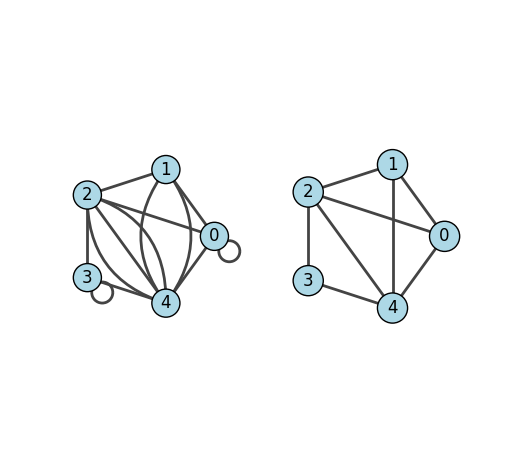
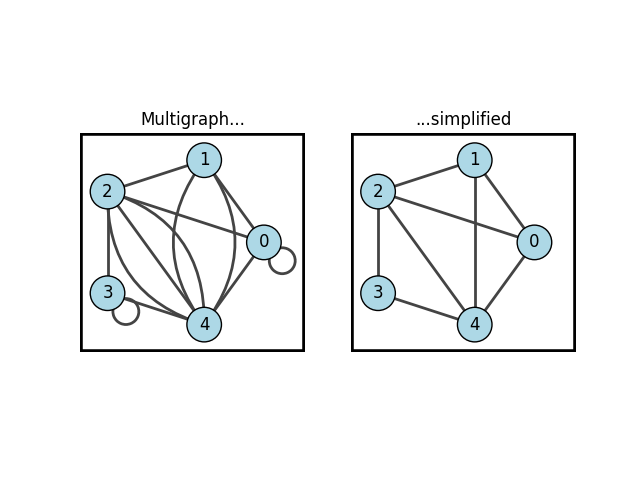
A little more figure variety

Changed region(s): [[0.1231, 0.2094, 0.4923, 0.7479], [0.5231, 0.2094, 0.9231, 0.7479]]

diff --git a/doc/source/tutorials/simplify/assets/simplify.py b/doc/source/tutorials/simplify/assets/simplify.py
@@ -9,14 +9,16 @@ g1 = ig.Graph([(0, 1), (1, 2), (2, 3), (3, 4), (4, 0), (0, 0),
 g2 = g1.copy()
 g2.simplify()
 
-# Plot graphs
+# Choose a consistent visual style
 visual_style = {
     "vertex_color": "lightblue",
     "vertex_size": 0.4,
     "vertex_label": [0, 1, 2, 3, 4],
 }
 
-fig, axs = plt.subplots(1, 2)
+# Make twin axes
+fig, axs = plt.subplots(1, 2, sharex=True, sharey=True)
+# Plot graphs
 ig.plot(
     g1,
     layout="circle",
@@ -29,4 +31,14 @@ ig.plot(
     target=axs[1],
     **visual_style,
 )
+# Draw rectangles around axes
+axs[0].add_patch(plt.Rectangle(
+    (0, 0), 1, 1, fc='none', ec='k', lw=4, transform=axs[0].transAxes,
+    ))
+axs[1].add_patch(plt.Rectangle(
+    (0, 0), 1, 1, fc='none', ec='k', lw=4, transform=axs[1].transAxes,
+    ))
+# Set titles
+axs[0].set_title('Multigraph...')
+axs[1].set_title('...simplified')
 plt.show()

diff --git a/doc/source/tutorials/simplify/simplify.rst b/doc/source/tutorials/simplify/simplify.rst
@@ -28,7 +28,7 @@ Then we make a copy of the original graph and simplify it in place:
     g2 = g1.copy()
     g2.simplify()
 
-Finally, we plot the graph:
+Finally, we plot the graphs:
 
 .. code-block::python
 
@@ -39,7 +39,9 @@ Finally, we plot the graph:
         "vertex_label": [0, 1, 2, 3, 4],
     }
 
-    fig, axs = plt.subplots(1, 2)
+    # Make twin axes
+    fig, axs = plt.subplots(1, 2, sharex=True, sharey=True)
+    # Plot graphs
     ig.plot(
         g1,
         layout="circle",
@@ -52,6 +54,16 @@ Finally, we plot the graph:
         target=axs[1],
         **visual_style,
     )
+    # Draw rectangles around axes
+    axs[0].add_patch(plt.Rectangle(
+        (0, 0), 1, 1, fc='none', ec='k', lw=4, transform=axs[0].transAxes,
+        ))
+    axs[1].add_patch(plt.Rectangle(
+        (0, 0), 1, 1, fc='none', ec='k', lw=4, transform=axs[1].transAxes,
+        ))
+    # Set titles
+    axs[0].set_title('Multigraph...')
+    axs[1].set_title('...simplified')
     plt.show()
 
 
